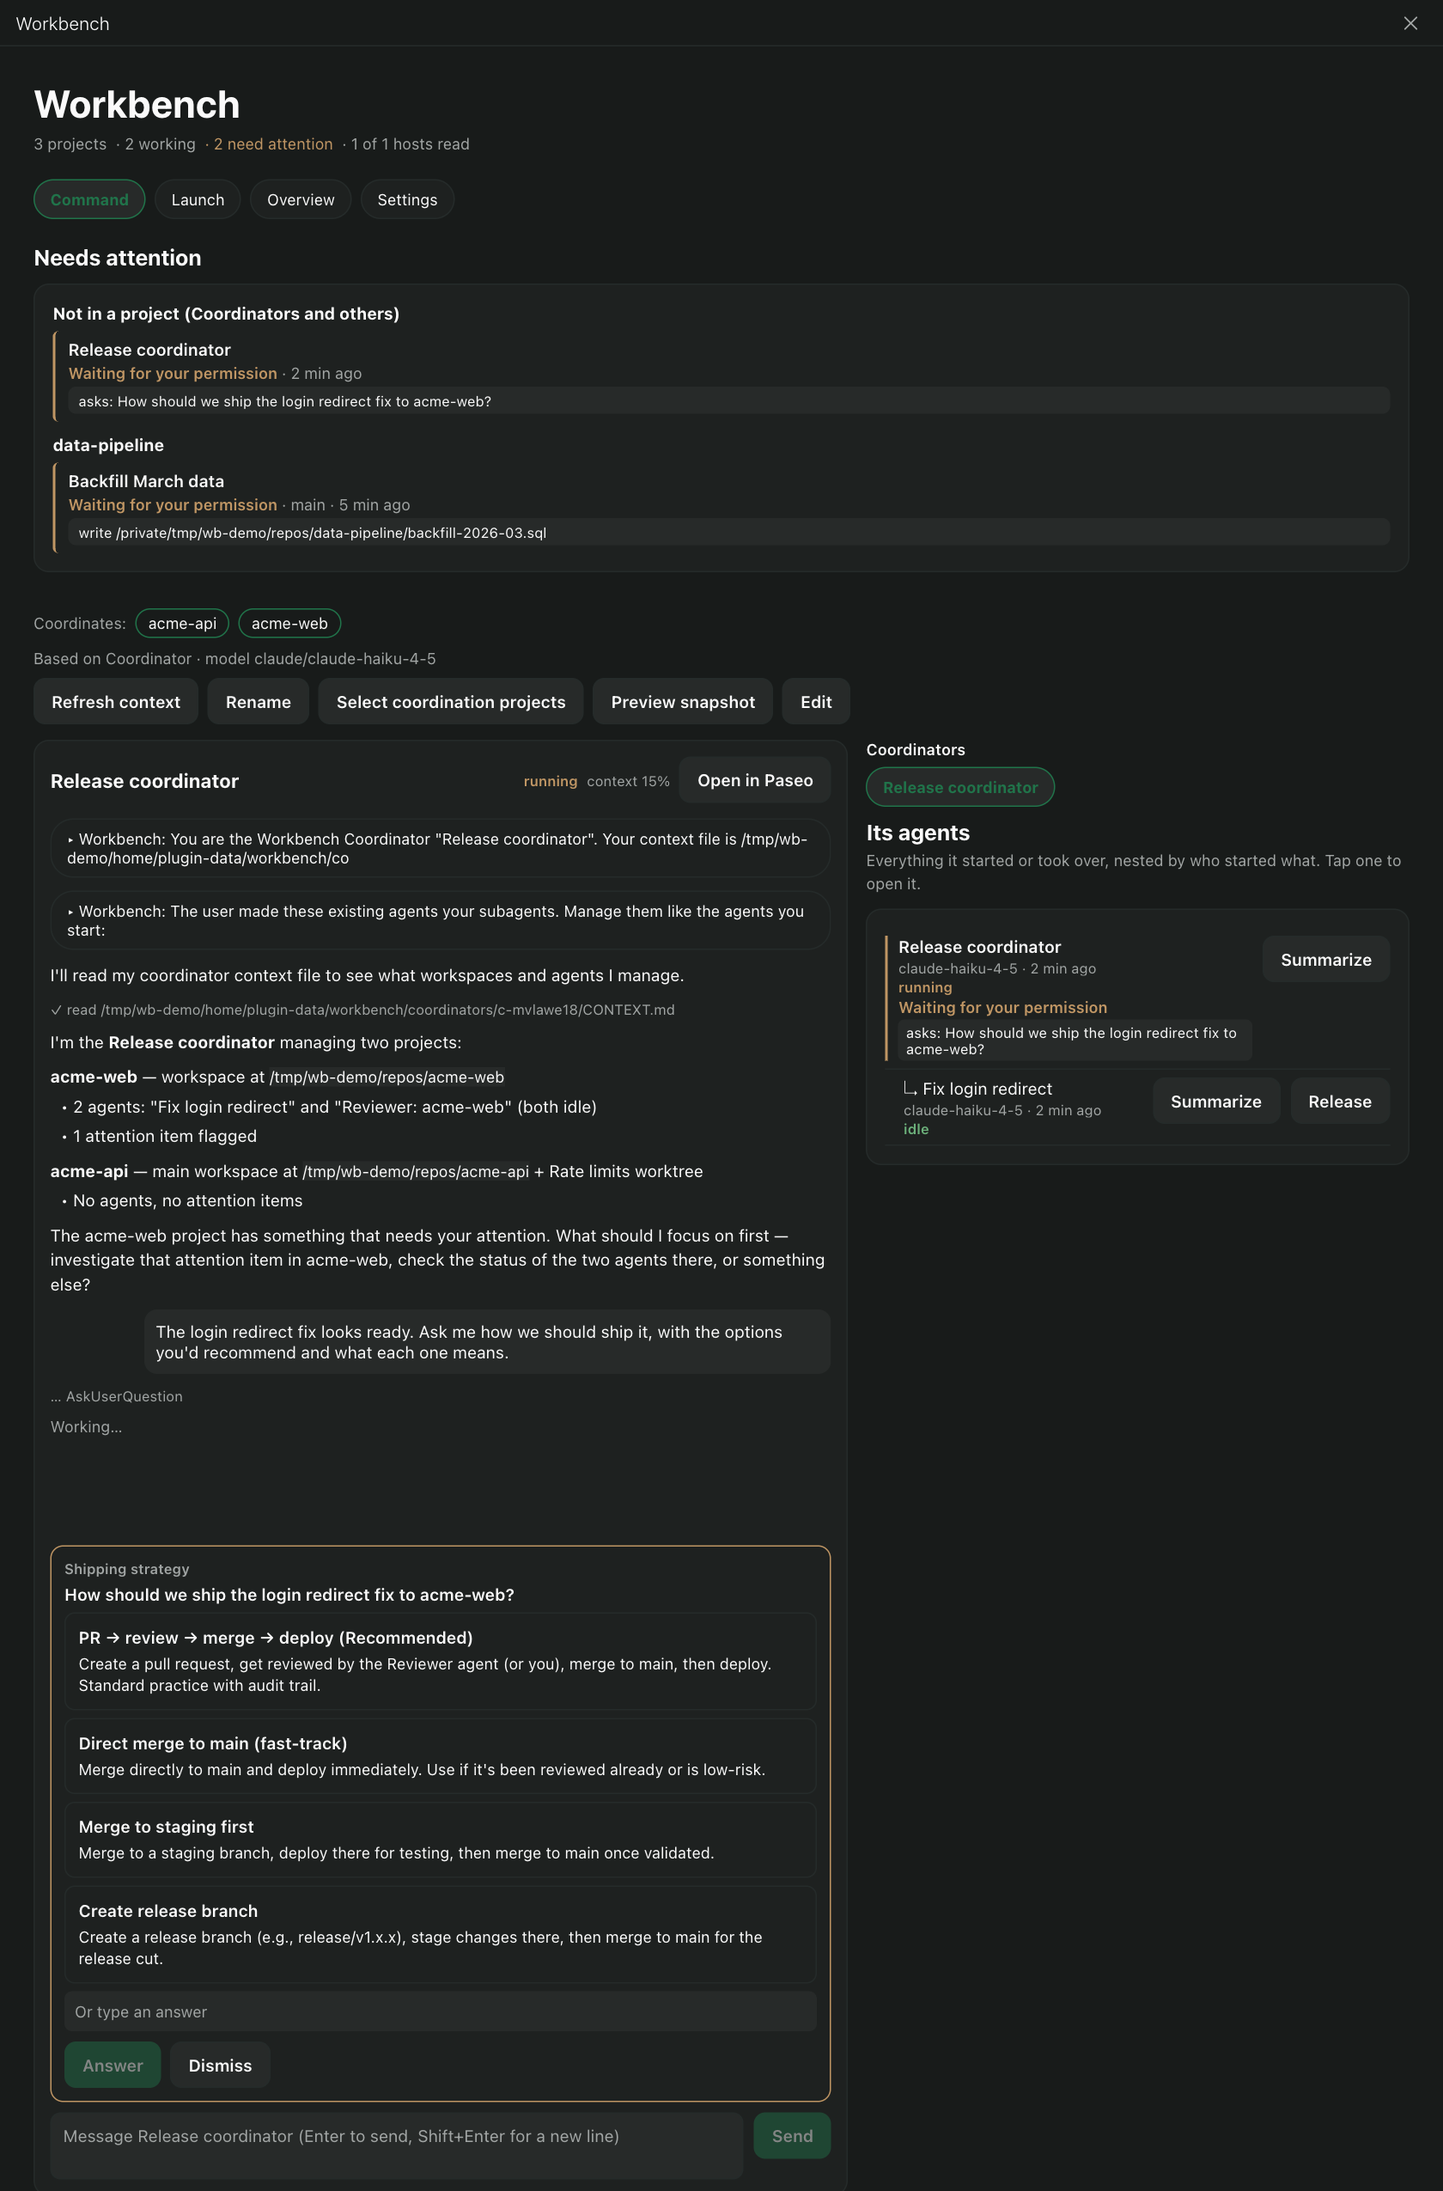
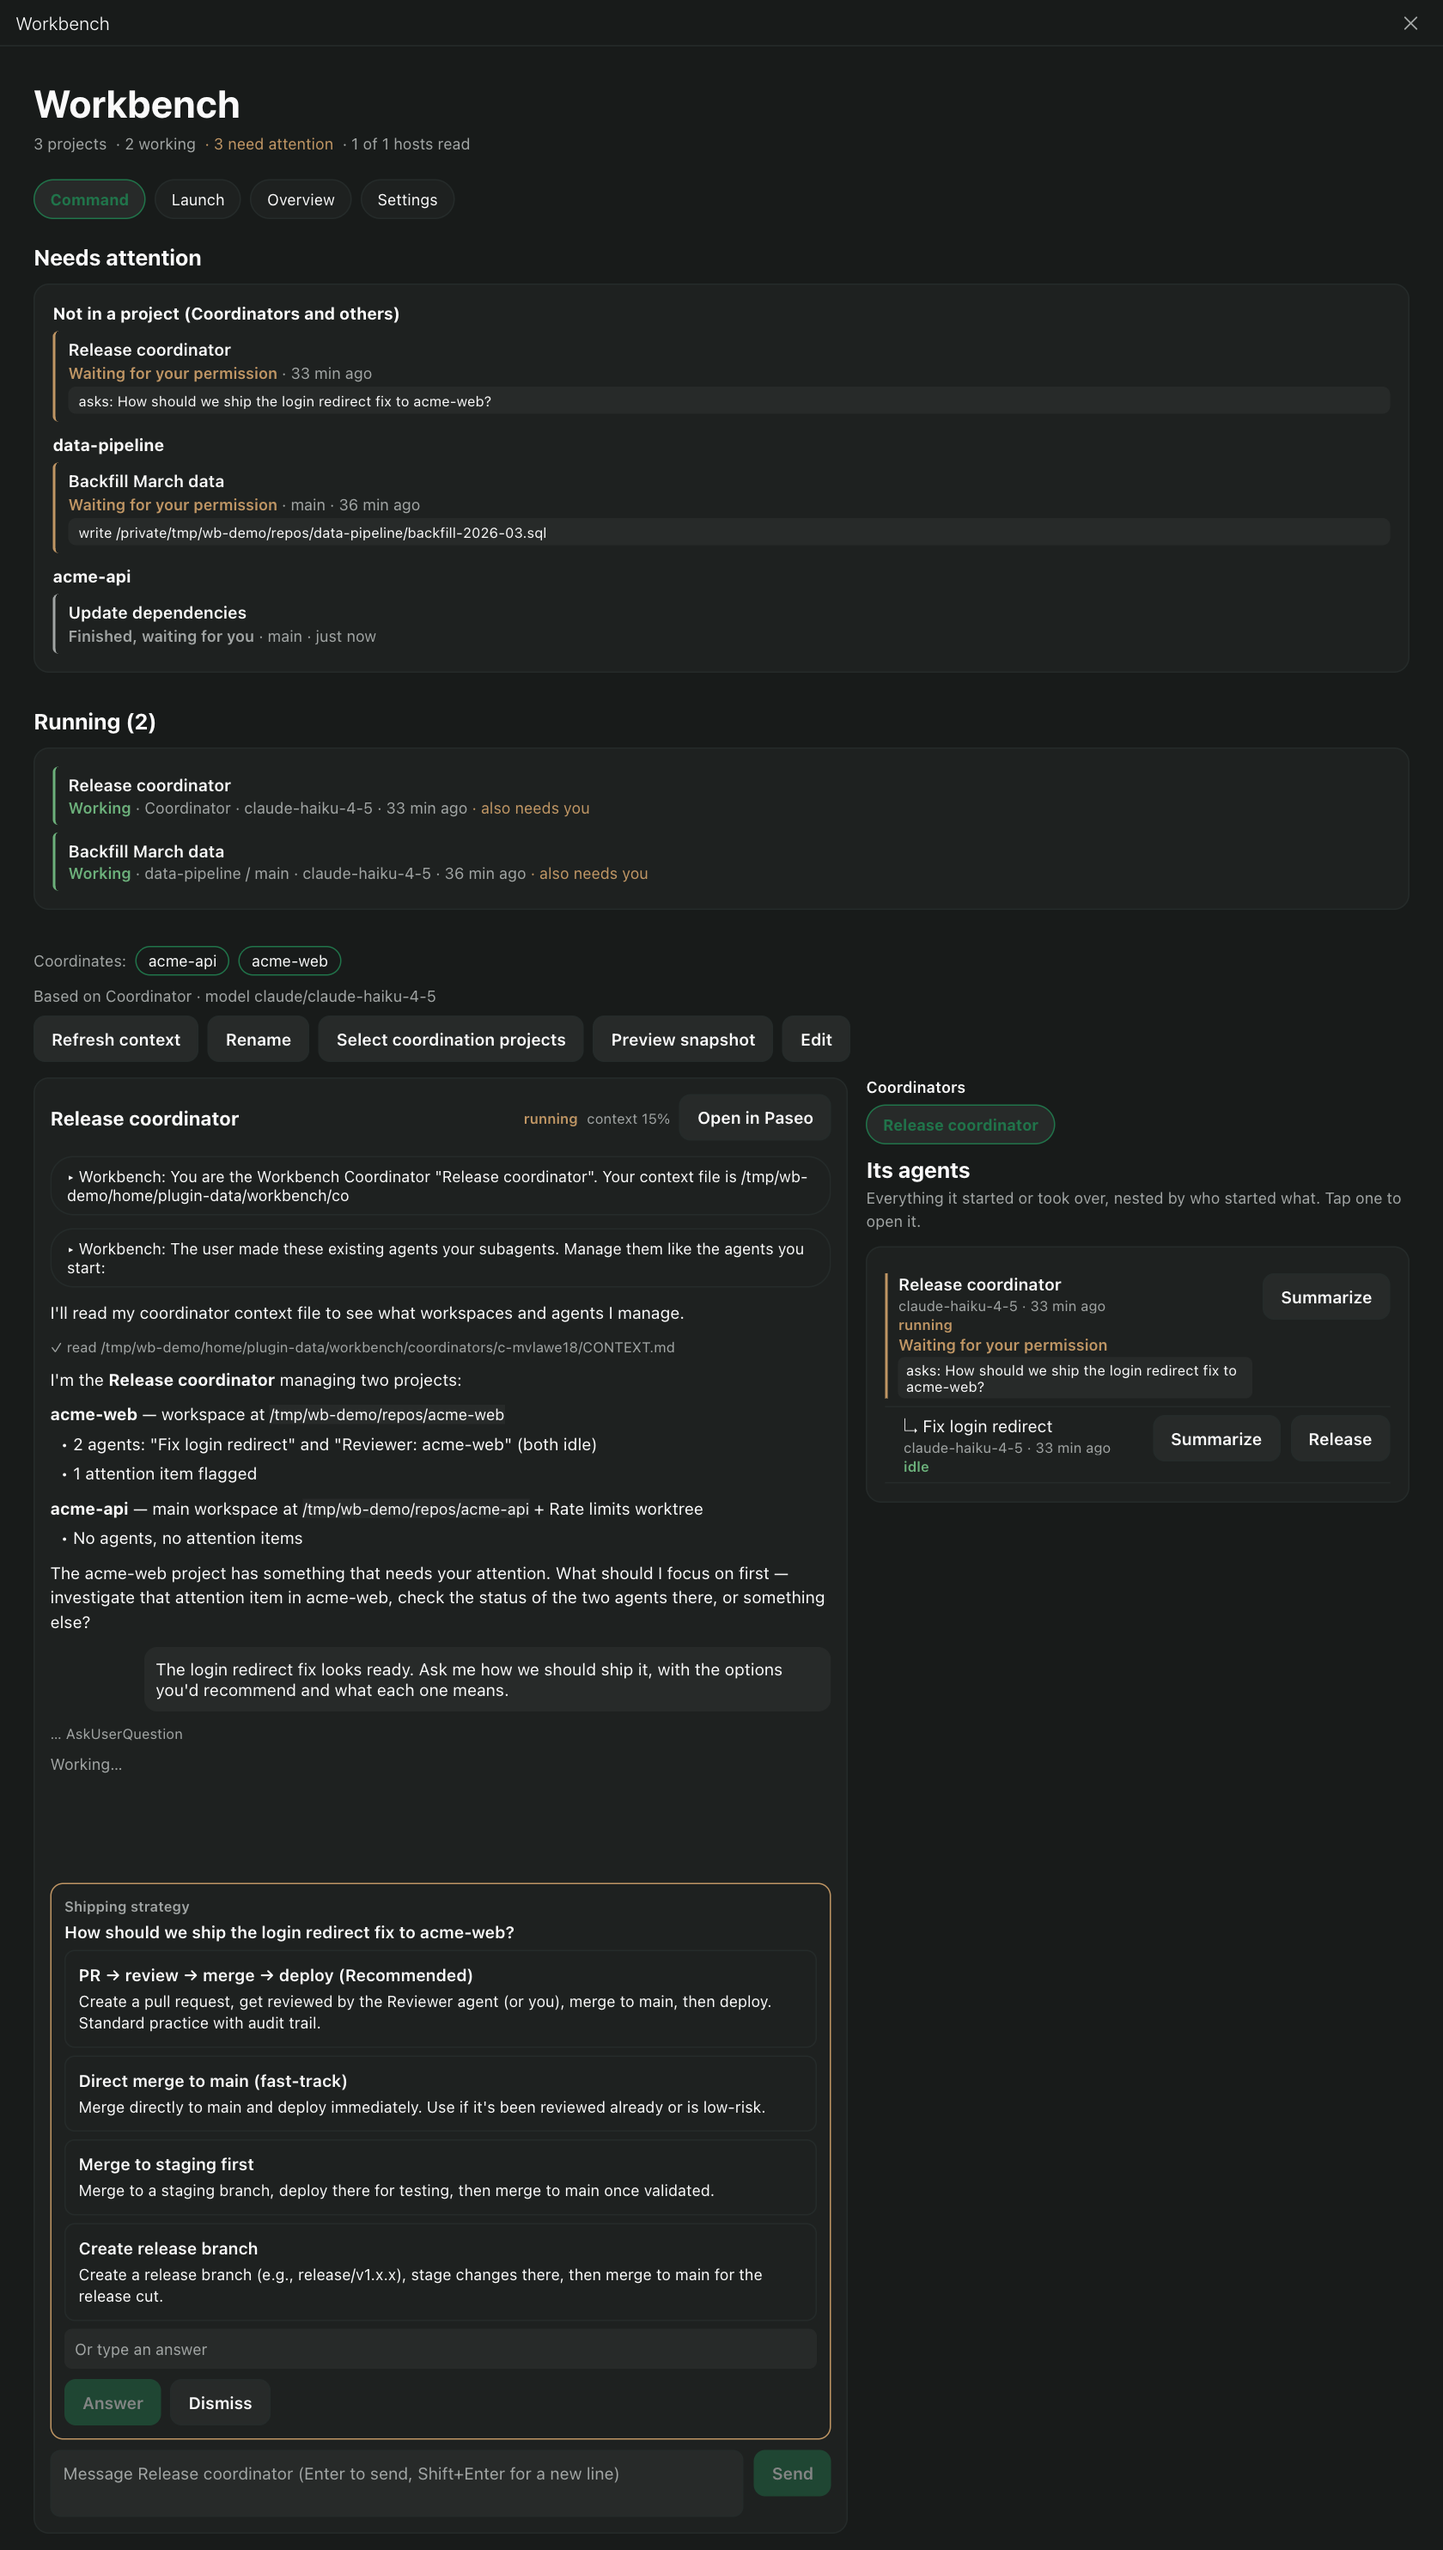
Command: Running section under Needs attention
Lists every agent working now with its project and workspace, model and last activity; agents also waiting on you are marked. Screenshots updated. 0.1.0-alpha.22.

diff --git a/client/RunningList.tsx b/client/RunningList.tsx
@@ -1,0 +1,32 @@
+import type { PluginTheme } from "@getpaseo/plugin";
+import { Pressable, Text, View } from "react-native";
+import { ago, type WorkbenchAgent, type WorkbenchWorkspace } from "../shared/model";
+import { COORDINATOR_LABEL, COORDINATOR_VALUE } from "../shared/settings";
+import { Notice } from "./ui";
+
+/** What is working right now (the header's "working" count), newest activity first. Tap one to open it. */
+export function RunningList({ theme, agents, workspaces, needsYou, hostSuffix, openAgent }: {
+  theme: PluginTheme; agents: readonly WorkbenchAgent[]; workspaces: readonly WorkbenchWorkspace[];
+  /** `serverId:agentId` of agents also listed under Needs attention. */
+  needsYou: ReadonlySet<string>; hostSuffix: (serverId: string) => string; openAgent: (agentId: string, serverId: string) => void;
+}) {
+  const now = Date.now();
+  const running = agents.filter((a) => !a.archived && (a.status === "running" || a.status === "initializing")).sort((a, b) => b.updatedAt.localeCompare(a.updatedAt));
+  if (!running.length) return <Notice theme={theme} text="Nothing is running." />;
+  return <View style={{ gap: 6 }}>
+    {running.map((a) => {
+      const w = workspaces.find((x) => x.serverId === a.serverId && x.workspaceId === a.workspaceId);
+      const where = a.labels[COORDINATOR_LABEL] === COORDINATOR_VALUE ? "Coordinator" : w ? `${w.projectName} / ${w.name}` : null;
+      const alsoNeedsYou = needsYou.has(`${a.serverId}:${a.agentId}`);
+      return <Pressable key={`${a.serverId}:${a.agentId}`} accessibilityRole="button" accessibilityLabel={`Open ${a.title}`} onPress={() => openAgent(a.agentId, a.serverId)}
+        style={({ pressed }) => ({ gap: 2, paddingLeft: 10, paddingVertical: 6, borderLeftWidth: 2, borderColor: theme.colors.statusSuccess, borderRadius: 4, backgroundColor: pressed ? theme.colors.surface2 : "transparent" })}>
+        <Text style={{ color: theme.colors.foreground, fontSize: 13, fontWeight: "600" }}>{a.title}</Text>
+        <Text style={{ color: theme.colors.foregroundMuted, fontSize: 12 }}>
+          <Text style={{ color: theme.colors.statusSuccess, fontWeight: "600" }}>{a.status === "initializing" ? "Starting" : "Working"}</Text>
+          {[where ? `${where}${hostSuffix(a.serverId)}` : null, a.model || null, ago(a.updatedAt, now)].filter(Boolean).map((x) => ` · ${x}`).join("")}
+          {alsoNeedsYou ? <Text style={{ color: theme.colors.statusWarning }}> · also needs you</Text> : null}
+        </Text>
+      </Pressable>;
+    })}
+  </View>;
+}

diff --git a/client/WorkbenchScreen.tsx b/client/WorkbenchScreen.tsx
@@ -7,6 +7,7 @@ import { attentionGroups, attentionHeadline, finishedSpecialists, groupProjects,
 import { useCoordinators } from "./Coordinators";
 import { LaunchTab } from "./LaunchTab";
 import { AttentionList } from "./AttentionList";
+import { RunningList } from "./RunningList";
 import { createSpecialist } from "./actions";
 import { Command } from "./Command";
 import { AgentTree } from "./AgentTree";
@@ -119,6 +120,9 @@ function ReadyWorkbench({host,theme,layout,navigation,directory,values,onSave}:P
     {tab==="command"?<Section theme={theme} title="Needs attention">
       {unobserved||!attention.length?<Notice theme={theme} kind={headline.clear?"info":"error"} text={headline.text}/>:null}
       <AttentionList theme={theme} groups={attentionByProject} hostSuffix={id=>id&&directory.hosts.length>1?` (${hostLabel(id)})`:""} openAgent={openAgent}/>
+    </Section>:null}
+    {tab==="command"?<Section theme={theme} title={`Running (${running.length})`}>
+      <RunningList theme={theme} agents={directory.agents} workspaces={directory.workspaces} needsYou={new Set(attentionIndex.keys())} hostSuffix={id=>directory.hosts.length>1?` (${hostLabel(id)})`:""} openAgent={openAgent}/>
     </Section>:null}
     {tab==="command"?<Command host={host} theme={theme} layout={layout} values={values} directory={directory} projects={projects} openAgent={openAgent} onSummarize={summarizeAction}
       coordinators={coordinators} selected={commandSelection} onSelect={setCommandSelection}/>:null}

diff --git a/README.md b/README.md
@@ -1,12 +1,12 @@
 # Workbench for Paseo
 
-**Status: 0.1.0-alpha.21. Validated against installed Paseo 0.12.0 on a disposable daemon (see [docs/TEST_REPORT.md](docs/TEST_REPORT.md)). Not yet run inside the native mobile app.**
+**Status: 0.1.0-alpha.22. Validated against installed Paseo 0.12.0 on a disposable daemon (see [docs/TEST_REPORT.md](docs/TEST_REPORT.md)). Not yet run inside the native mobile app.**
 
 Workbench adds a cross-project overview, Coordinators that orchestrate agents, and independent reusable specialist agents (with an opt-in second opinion) to Paseo. It uses native Paseo agents, workspaces, agent labels, plugin settings, and the existing mobile-compatible plugin UI. It does not replace Claude Code's own delegation, create a mission engine, or change Paseo's core.
 
 ## Screenshots
 
-**Command**: what needs you, then a coordinator's chat (its questions answered in place) beside the agents it runs.
+**Command**: what needs you and what is running, then a coordinator's chat (its questions answered in place) beside the agents it runs.
 
 ![Command tab: needs attention, a coordinator's chat with a question, and its agents](docs/screenshots/command.png)
 
@@ -28,7 +28,7 @@ Workbench adds a cross-project overview, Coordinators that orchestrate agents, a
 - **Cleaning up**: specialists you launch stay in their workspace when they finish (you usually want to read the result). **Archive** them in Overview, one by one or with **Archive finished specialists** to clear all finished Workbench specialists at once (with their review teams). Archived agents stay in Paseo's history. Nothing is archived automatically, and running agents, agents waiting on you, and coordinators are never offered.
 - **Worktrees** (Overview): every Git worktree Paseo created on this host, with its agents, last activity and whether it has uncommitted changes. **Remove** uses Paseo's own workspace archive (folder deleted, branch kept, its agents archived) and asks before discarding uncommitted changes. A PR review reuses the worktree already open for that pull request, and archiving the last agent of a Workbench PR-review worktree removes the worktree too, unless it has uncommitted changes.
 - **Taking over existing agents**: when launching a coordinator, pick existing top-level agents in its projects; they become its subagents (Paseo's parent label, set with `paseo agent update`), nested under it in Paseo and in Command, and the coordinator is told. **Release** in Command makes one top-level again (`paseo agent detach`).
-- **Command**: talk to a running Coordinator (archived ones disappear). Its conversation streams from Paseo's own timeline (markdown replies, one line per tool call, Workbench's own relay messages collapsed); its questions appear as forms you answer there, each option with its full description; other permission requests show what they would do and open in Paseo; Enter sends (steering a running turn, as in Paseo); a context-usage meter. Beside it (below it on a phone), the tree of every agent it started, with what each is waiting on from you. Paseo's own agent view keeps working.
+- **Command**: **Needs attention**, then **Running** (every agent working now, with its project and workspace; ones also waiting on you are marked), then talk to a running Coordinator (archived ones disappear). Its conversation streams from Paseo's own timeline (markdown replies, one line per tool call, Workbench's own relay messages collapsed); its questions appear as forms you answer there, each option with its full description; other permission requests show what they would do and open in Paseo; Enter sends (steering a running turn, as in Paseo); a context-usage meter. Beside it (below it on a phone), the tree of every agent it started, with what each is waiting on from you. Paseo's own agent view keeps working.
 - **Projects across connected hosts**, grouped by `(serverId, projectId)`. A host that is offline or fails to load is named in red and counted ("1 of 2 hosts read"). Workbench never shows "all clear" for hosts it could not read.
 - **Coordinators** (any number): each has a name, model, instructions, and what on this host it coordinates (**Select coordination projects**: tap a project to take all of it and open its workspaces, tap workspaces to narrow it to those; shown as "Coordinates:" pills) or every project. Created only when you click. All coordinators share one working folder (`<PASEO_HOME>/plugin-data/workbench/coordinators`), so Paseo's sidebar shows them together in one project, **coordinators**; each has its own context file there (`<id>/CONTEXT.md`). **Rename** changes the name in Workbench and the agent's title in Paseo. Agents a coordinator starts or takes over stay in their own projects and workspaces, nested under it in Command and Overview with a `CONTEXT.md` snapshot you can preview: its assignment and its workspace and agent IDs. Creation is idempotent across devices and restarts. See **Coordinator autonomy** below.
 - **Specialists**: Coordinator, Reviewer, Experiment reviewer, Debugger, Session summarizer, PR manager, plus your own. Each launch is a fresh Paseo agent. The model and mode come from the host's provider catalog; Workbench never guesses a model.

diff --git a/CHANGELOG.md b/CHANGELOG.md
@@ -1,5 +1,8 @@
 # Changelog
 
+## 0.1.0-alpha.22 — 2026-10-23
+- Command: a **Running** section under Needs attention lists every agent working now (project / workspace, model, last activity; "also needs you" when it is also waiting on you). Tap to open.
+
 ## 0.1.0-alpha.21 — 2026-10-23
 - README screenshots (staged demo projects).
 - Launch no longer repeats the specialist's description; hints point to "Settings > Specialists"; the Coordinator profile note mentions both places it runs; Workbench notices in a coordinator's chat no longer read "[Workbench]" twice.
